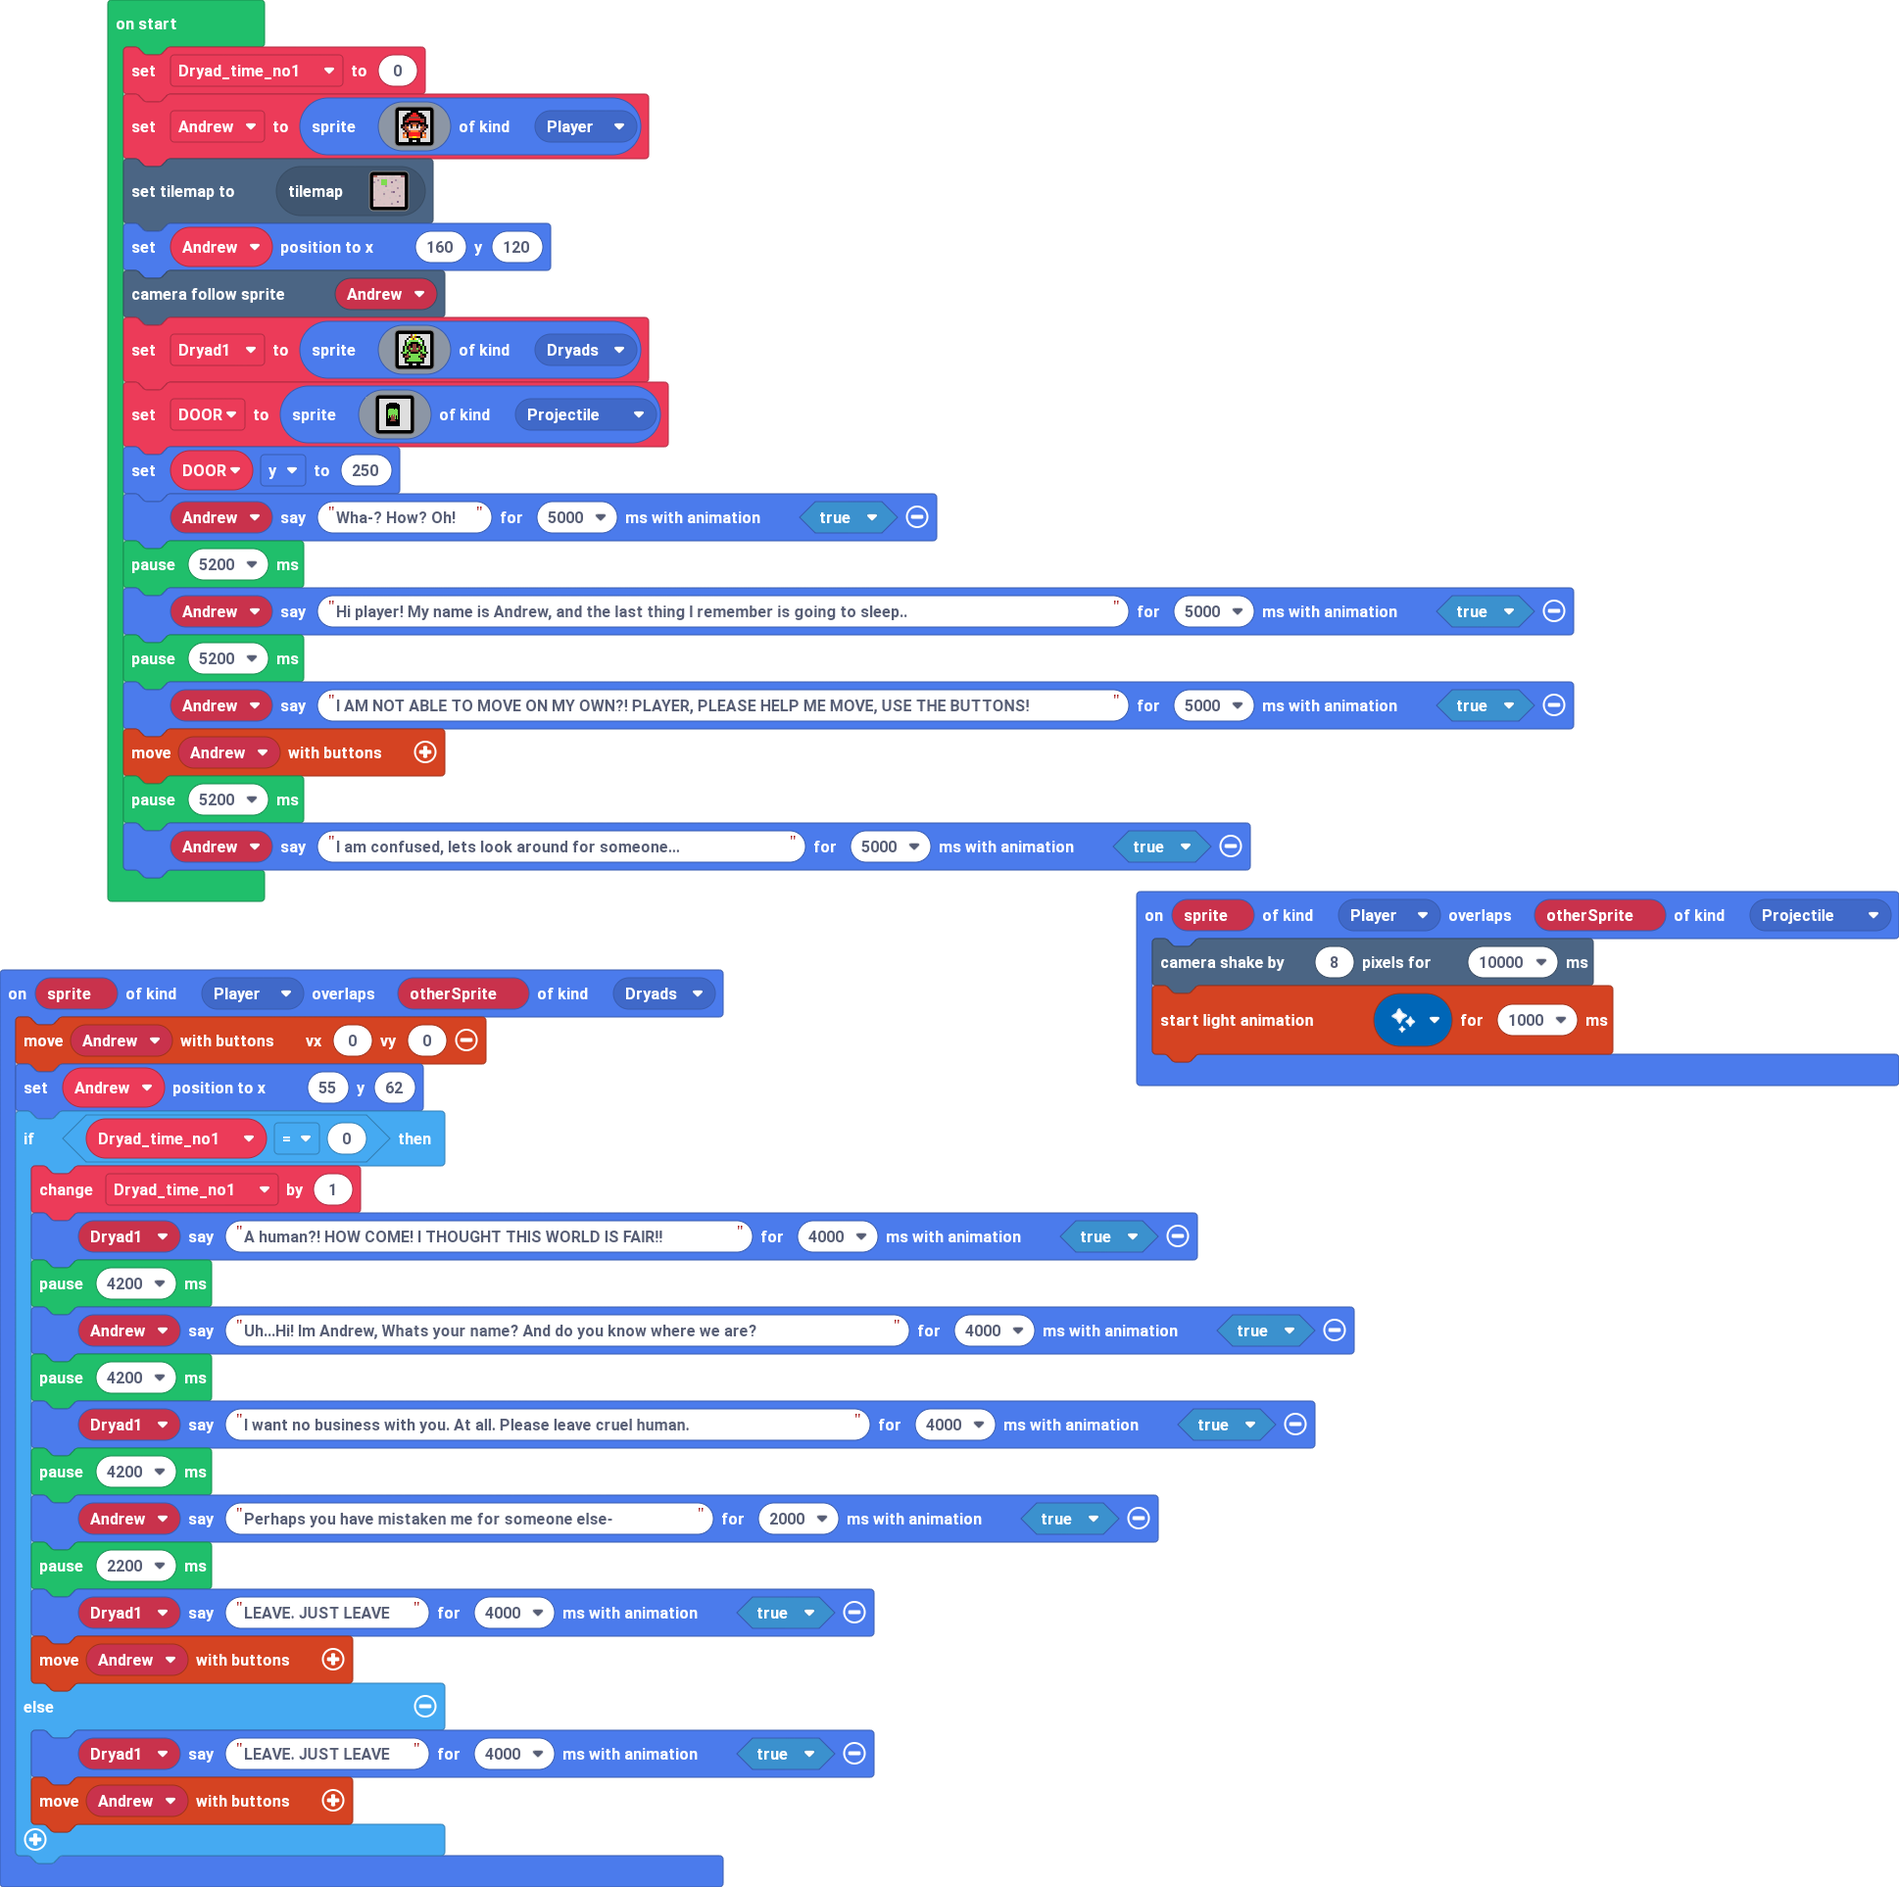
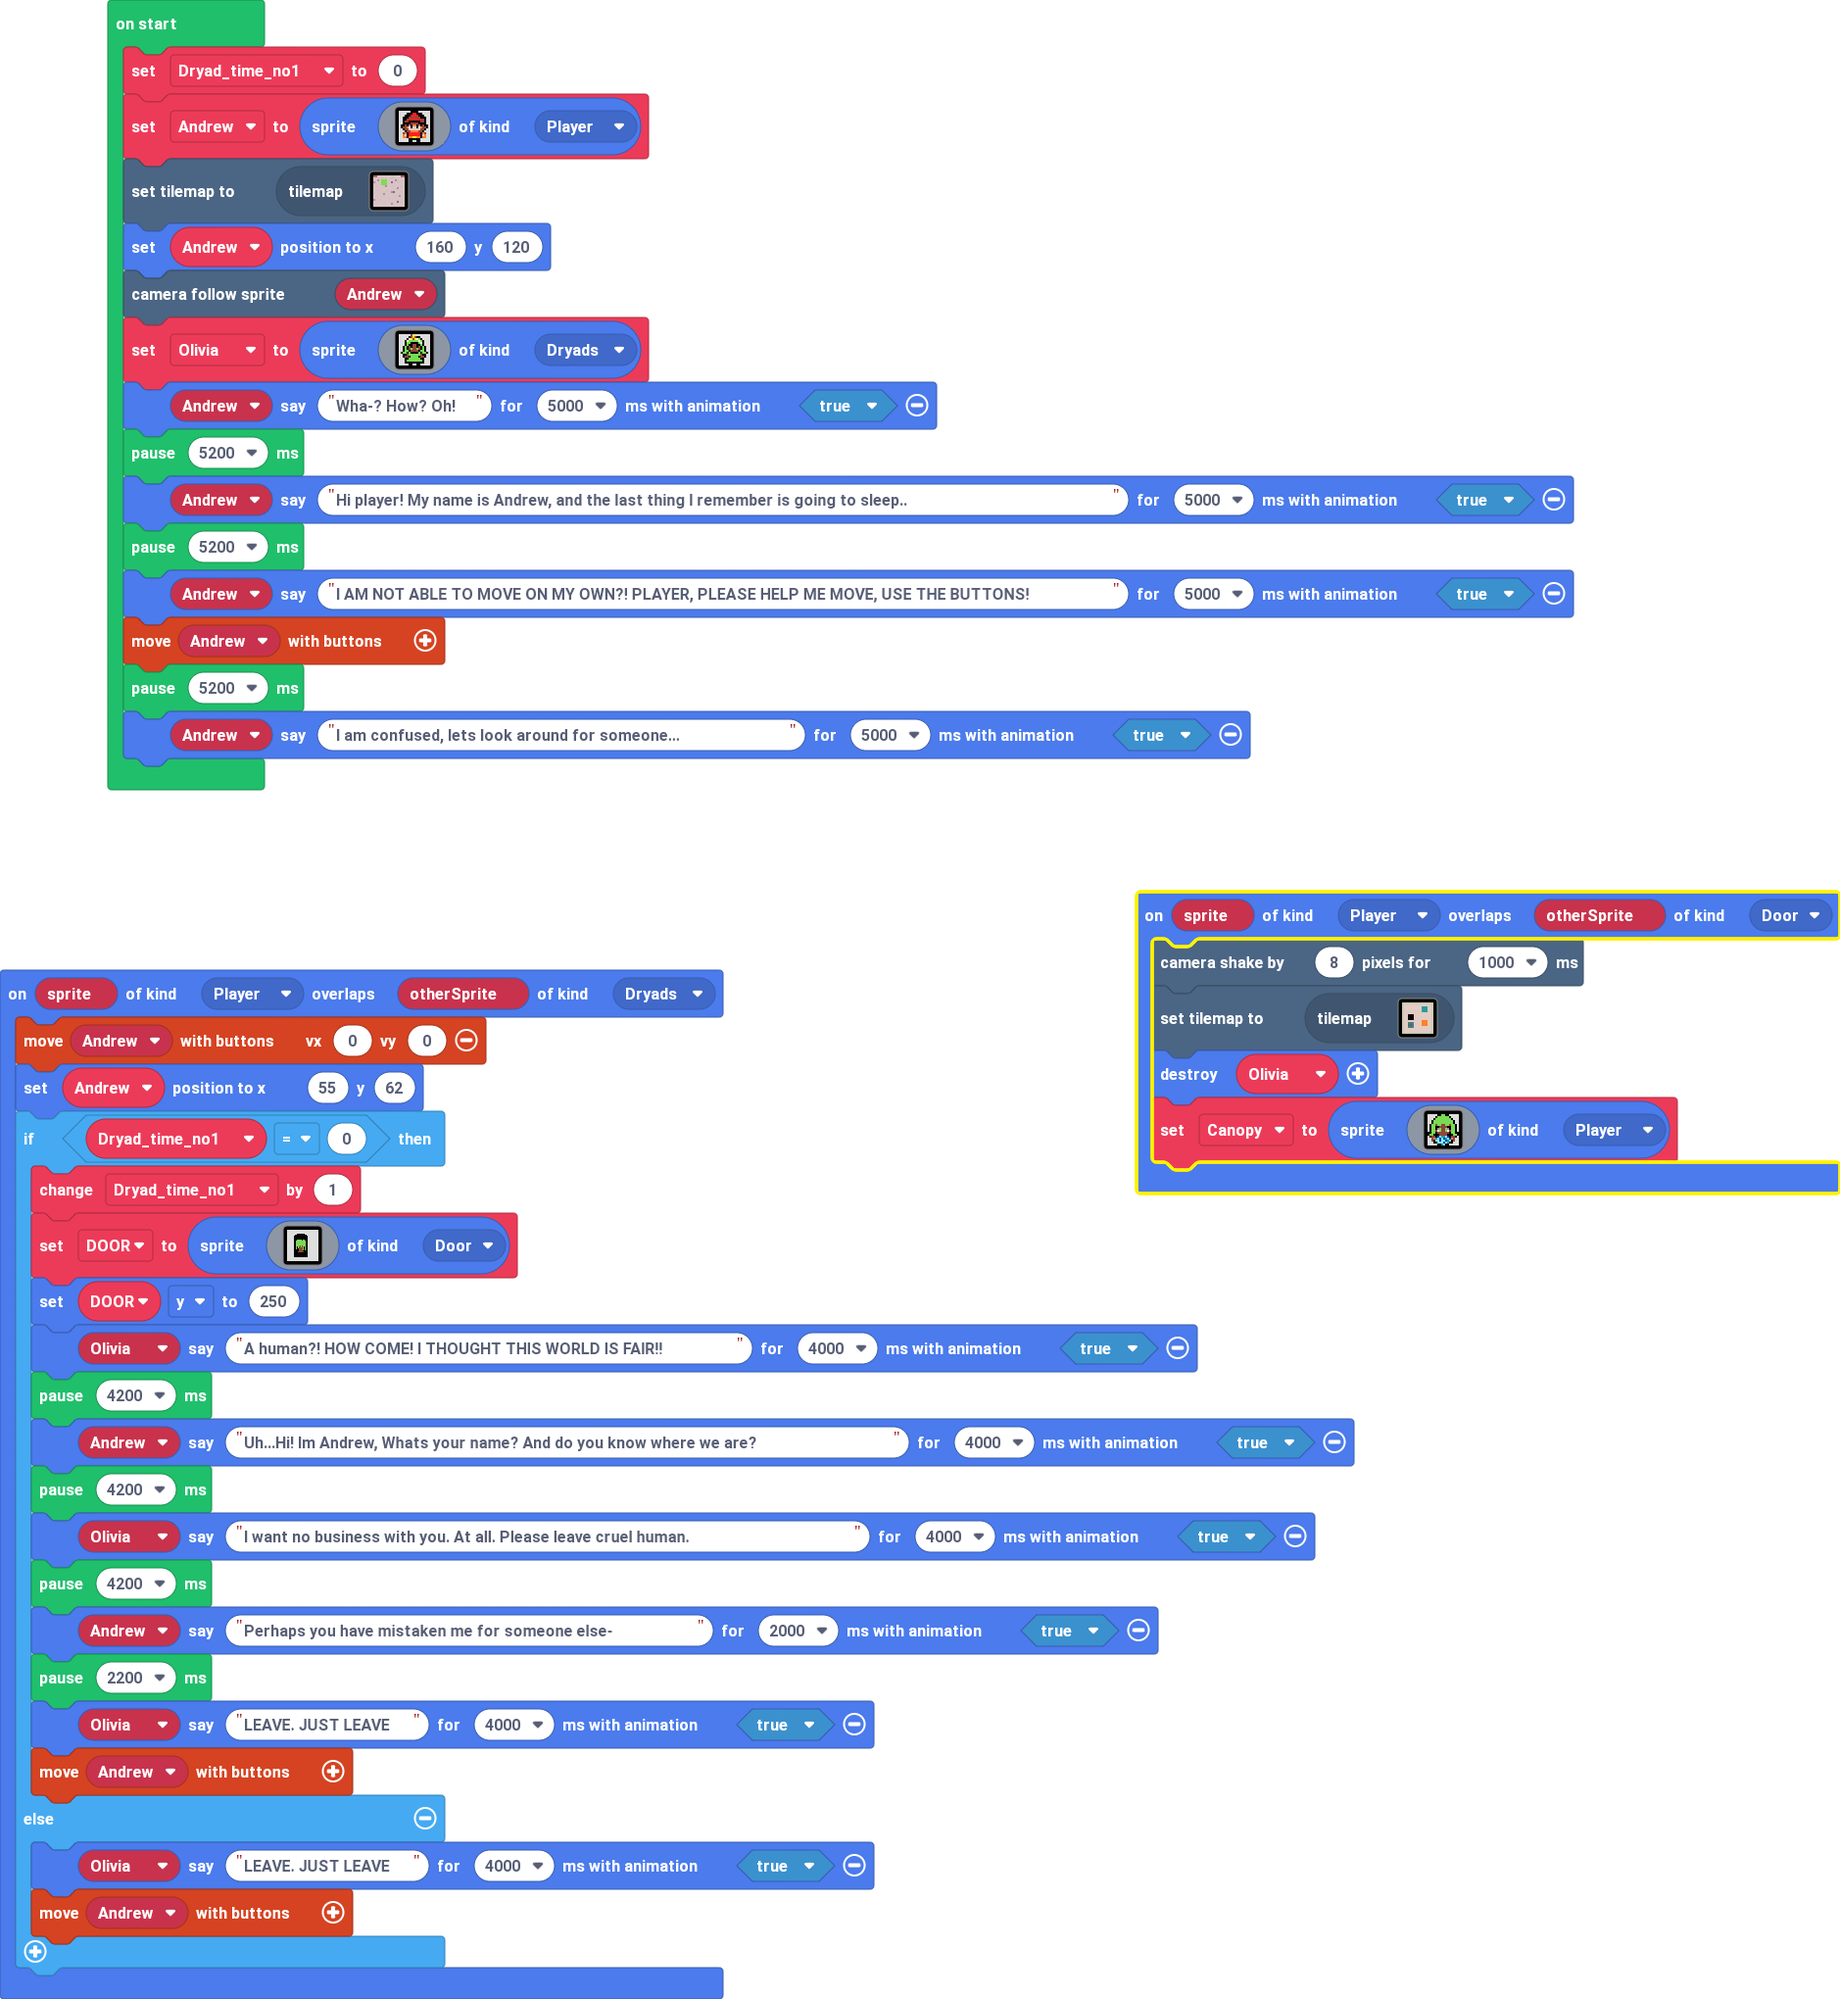
Update pxt.json, main.blocks, main.ts, tilemap.g.jres, tilemap.g.ts

diff --git a/tilemap.g.ts b/tilemap.g.ts
@@ -5,25 +5,6 @@ namespace myTiles {
 
     helpers._registerFactory("tilemap", function(name: string) {
         switch(helpers.stringTrim(name)) {
-            case "level2":
-            case "level2":return tiles.createTilemap(hex`1000100000000000000000000000000000000000000000000000000000000000000000000000000000000000000000000000000000000000000000000000000000000000000000000000000000000000000000000000000000000000000000000000000000000000000000000000000000000000000000000000000000000000000000000000000000000000000000000000000000000000000000000000000000000000000000000000000000000000000000000000000000000000000000000000000000000000000000000000000000000000000000000000000000000000000000000000000000000000000000000000000000000000000000000000000000000000`, img`
-. . . . . . . . . . . . . . . . 
-. . . . . . . . . . . . . . . . 
-. . . . . . . . . . . . . . . . 
-. . . . . . . . . . . . . . . . 
-. . . . . . . . . . . . . . . . 
-. . . . . . . . . . . . . . . . 
-. . . . . . . . . . . . . . . . 
-. . . . . . . . . . . . . . . . 
-. . . . . . . . . . . . . . . . 
-. . . . . . . . . . . . . . . . 
-. . . . . . . . . . . . . . . . 
-. . . . . . . . . . . . . . . . 
-. . . . . . . . . . . . . . . . 
-. . . . . . . . . . . . . . . . 
-. . . . . . . . . . . . . . . . 
-. . . . . . . . . . . . . . . . 
-`, [myTiles.transparency16], TileScale.Sixteen);
             case "level1":
             case "level1":return tiles.createTilemap(hex`1000100001010303040304030408080303030202030303040804080308080404030403030404060405050504040404060804040406040404050505040407040408080804040404040505050404040404040404040408040404080604040804040404080404040404040403030304040406040804040408040403040804040404040404040804040404080404040607040404080404040404040604040404040404040408040404040408040404040408040604040404040404040404080404040404040406040408040404040404040404040408040404040404040404080404070408040404040404080404040604040404040404040404040404040404040404040404`, img`
 . . . . . . . . . . . . . . . . 
@@ -81,6 +62,44 @@ namespace myTiles {
 . . . . . . . . . . . . . . . . 
 . . . . . . . . . . . . . . . . 
 `, [myTiles.transparency16], TileScale.Sixteen);
+            case "level5":
+            case "level5":return tiles.createTilemap(hex`1000100000000000000000000000000000000000000000000000000000000000000000000000000000000000000000000000000000000000000000000000000000000000000000000000000000000000000000000000000000000000000000000000000000000000000000000000000000000000000000000000000000000000000000000000000000000000000000000000000000000000000000000000000000000000000000000000000000000000000000000000000000000000000000000000000000000000000000000000000000000000000000000000000000000000000000000000000000000000000000000000000000000000000000000000000000000000`, img`
+. . . . . . . . . . . . . . . . 
+. . . . . . . . . . . . . . . . 
+. . . . . . . . . . . . . . . . 
+. . . . . . . . . . . . . . . . 
+. . . . . . . . . . . . . . . . 
+. . . . . . . . . . . . . . . . 
+. . . . . . . . . . . . . . . . 
+. . . . . . . . . . . . . . . . 
+. . . . . . . . . . . . . . . . 
+. . . . . . . . . . . . . . . . 
+. . . . . . . . . . . . . . . . 
+. . . . . . . . . . . . . . . . 
+. . . . . . . . . . . . . . . . 
+. . . . . . . . . . . . . . . . 
+. . . . . . . . . . . . . . . . 
+. . . . . . . . . . . . . . . . 
+`, [myTiles.transparency16], TileScale.Sixteen);
+            case "level2":
[1 lines of base64/hex data omitted]
+. . . . . . . . . . . . . . . . 
+. . . . . . . . . . . . . . . . 
+. . . . . . . . . . . . . . . . 
+. . . . . . . . . . . . . . . . 
+. . . . . . . . . . . . . . . . 
+. . . . . . . . . . . . . . . . 
+. . . . . . . . . . . . . . . . 
+. . . . . . . . . . . . . . . . 
+. . . . . . . . . . . . . . . . 
+. . . . . . . . . . . . . . . . 
+. . . . . . . . . . . . . . . . 
+. . . . . . . . . . . . . . . . 
+. . . . . . . . . . . . . . . . 
+. . . . . . . . . . . . . . . . 
+. . . . . . . . . . . . . . . . 
+. . . . . . . . . . . . . . . . 
+`, [myTiles.transparency16,sprites.castle.tilePath5,sprites.castle.tilePath1,sprites.castle.tilePath4,sprites.castle.tilePath7,sprites.castle.tilePath8,sprites.castle.tilePath9,sprites.castle.tilePath3,sprites.castle.tilePath6,sprites.castle.tilePath2,sprites.castle.tileDarkGrass3,sprites.castle.tileDarkGrass1,sprites.builtin.forestTiles11,sprites.builtin.forestTiles5,sprites.builtin.forestTiles7,sprites.builtin.forestTiles6,sprites.builtin.forestTiles9,sprites.builtin.forestTiles13,sprites.builtin.forestTiles14,sprites.builtin.forestTiles15,sprites.builtin.forestTiles10,sprites.dungeon.hazardLava0,sprites.dungeon.hazardLava1,sprites.dungeon.greenOuterNorthWest,sprites.dungeon.greenOuterNorth0,sprites.dungeon.greenOuterNorthEast,sprites.dungeon.greenOuterEast0,sprites.dungeon.greenOuterSouthWest,sprites.dungeon.greenOuterSouthEast,sprites.dungeon.greenOuterSouth0,sprites.dungeon.greenOuterWest1,sprites.dungeon.greenInnerSouthWest], TileScale.Sixteen);
         }
         return null;
     })

diff --git a/main.ts b/main.ts
@@ -1,31 +1,55 @@
 namespace SpriteKind {
     export const Dryads = SpriteKind.create()
+    export const Door = SpriteKind.create()
 }
+sprites.onOverlap(SpriteKind.Player, SpriteKind.Door, function (sprite, otherSprite) {
+    scene.cameraShake(8, 1000)
+    tiles.setCurrentTilemap(tilemap`level2`)
+    Olivia.destroy()
+    Canopy = sprites.create(img`
+        . . . . . f f 7 7 f f . . . . . 
+        . . . . f 7 7 7 7 7 7 f . . . . 
+        . . . f 7 7 7 7 7 7 7 7 f . . . 
+        . . f 7 7 7 7 7 7 7 7 7 7 f . . 
+        . . f 7 7 7 7 7 7 7 7 7 7 f . . 
+        . f 7 7 e 7 7 e e 7 7 e 7 7 f . 
+        . f 7 7 f f e e e e f f 7 7 f . 
+        . f 7 7 f b 7 e e 7 b f 7 7 f . 
+        . f 7 7 e 1 7 e e 7 1 e 7 7 f . 
+        f f 7 7 f e e e e e e f 7 7 f f 
+        f 7 7 f f f e e e e f f f 7 7 f 
+        . f e e f 8 9 6 6 9 8 f e e f . 
+        . . e 4 6 9 8 9 8 6 9 8 4 e . . 
+        . . e f 9 9 8 9 9 8 6 9 f e . . 
+        . . . f f 9 9 9 8 9 6 f f . . . 
+        . . . . . f f 6 9 f f . . . . . 
+        `, SpriteKind.Player)
+})
 sprites.onOverlap(SpriteKind.Player, SpriteKind.Dryads, function (sprite, otherSprite) {
     controller.moveSprite(Andrew, 0, 0)
     Andrew.setPosition(55, 62)
     if (Dryad_time_no1 == 0) {
         Dryad_time_no1 += 1
-        Dryad1.sayText("A human?! HOW COME! I THOUGHT THIS WORLD IS FAIR!!", 4000, true)
+        DOOR = sprites.create(assets.image`myImage`, SpriteKind.Door)
+        DOOR.y = 250
+        Olivia.sayText("A human?! HOW COME! I THOUGHT THIS WORLD IS FAIR!!", 4000, true)
         pause(4200)
         Andrew.sayText("Uh...Hi! Im Andrew, Whats your name? And do you know where we are?", 4000, true)
         pause(4200)
-        Dryad1.sayText("I want no business with you. At all. Please leave cruel human.", 4000, true)
+        Olivia.sayText("I want no business with you. At all. Please leave cruel human.", 4000, true)
         pause(4200)
         Andrew.sayText("Perhaps you have mistaken me for someone else-", 2000, true)
         pause(2200)
-        Dryad1.sayText("LEAVE. JUST LEAVE", 4000, true)
+        Olivia.sayText("LEAVE. JUST LEAVE", 4000, true)
         controller.moveSprite(Andrew)
     } else {
-        Dryad1.sayText("LEAVE. JUST LEAVE", 4000, true)
+        Olivia.sayText("LEAVE. JUST LEAVE", 4000, true)
         controller.moveSprite(Andrew)
     }
 })
-sprites.onOverlap(SpriteKind.Player, SpriteKind.Projectile, function (sprite, otherSprite) {
-    scene.cameraShake(8, 10000)
-    controller.startLightAnimation(light.sparkleAnimation, 1000)
-})
-let Dryad1: Sprite = null
+let DOOR: Sprite = null
+let Canopy: Sprite = null
+let Olivia: Sprite = null
 let Andrew: Sprite = null
 let Dryad_time_no1 = 0
 Dryad_time_no1 = 0
@@ -50,7 +74,7 @@ Andrew = sprites.create(img`
 tiles.setCurrentTilemap(tilemap`level1`)
 Andrew.setPosition(160, 120)
 scene.cameraFollowSprite(Andrew)
-Dryad1 = sprites.create(img`
+Olivia = sprites.create(img`
     . . . . . . e . 5 . . . . . . . 
     . . . . . f e 5 e f f . . . . . 
     . . . . f 1 5 e 5 1 7 f . . . . 
@@ -68,8 +92,6 @@ Dryad1 = sprites.create(img`
     . . . f f f f f f f f f f . . . 
     . . . . . f f . . f f . . . . . 
     `, SpriteKind.Dryads)
-let DOOR = sprites.create(assets.image`myImage`, SpriteKind.Projectile)
-DOOR.y = 250
 Andrew.sayText("Wha-? How? Oh!", 5000, true)
 pause(5200)
 Andrew.sayText("Hi player! My name is Andrew, and the last thing I remember is going to sleep..", 5000, true)
